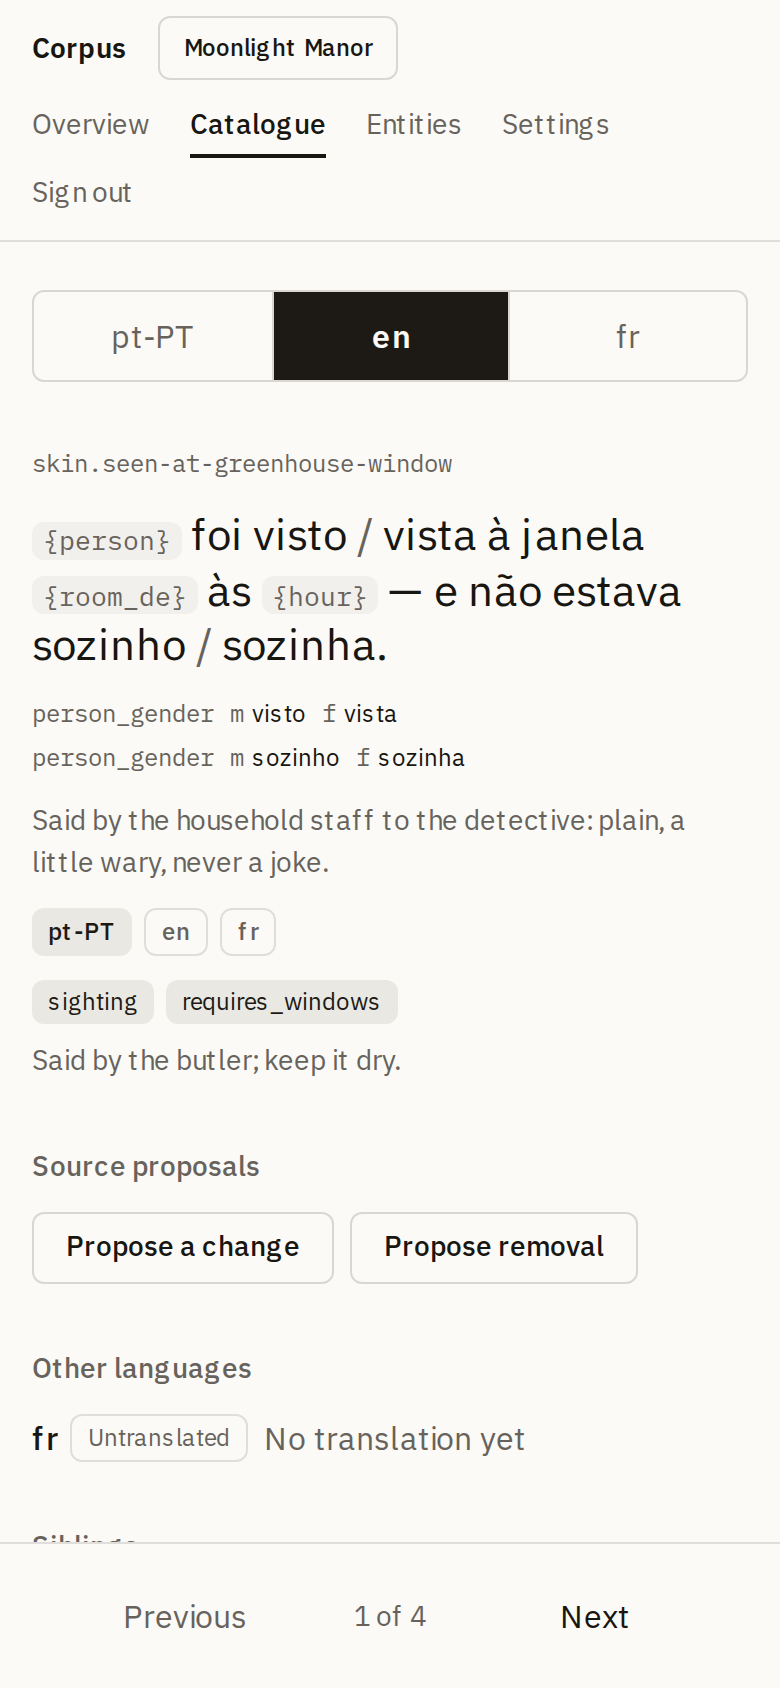
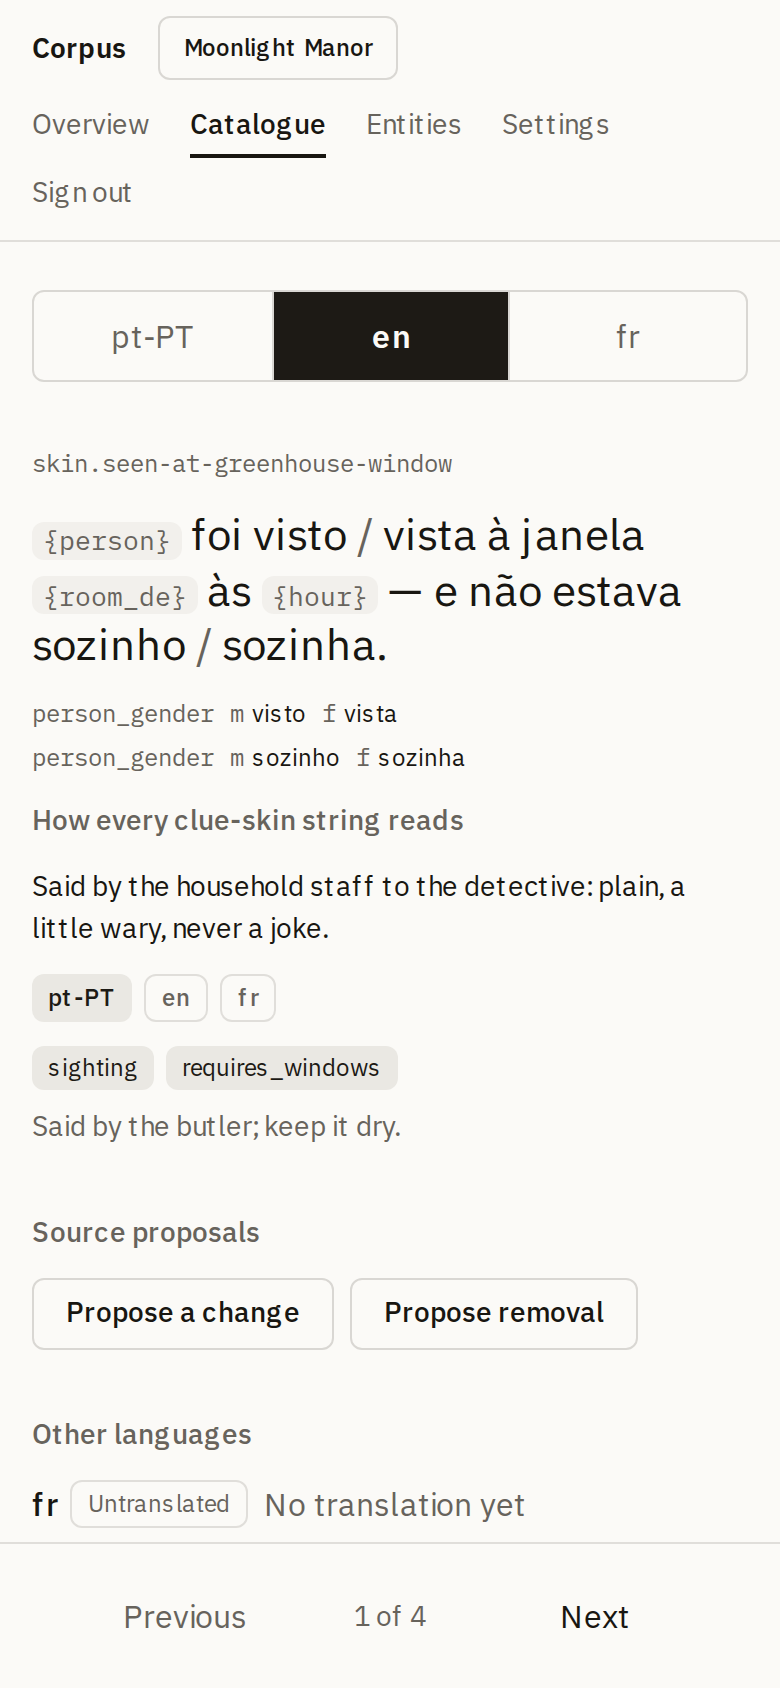
Review fixes: the note is a titled section; contract tests; the smoke and the alt text see it
The type's note is a level-3 section headed "How every <type> string
reads", so assistive tech and the eye both tell it from a string's own
text metadata. Contract tests for the optional map and the empty note;
the smoke sees the note; the structured-editor alt text names the note
and the sibling.

diff --git a/packages/contract/src/config.test.ts b/packages/contract/src/config.test.ts
@@ -124,3 +124,24 @@ test("language codes must be tags such as en or pt-PT", () => {
     corpusConfigSchema.safeParse({ ...base, project: "my project" }).success,
   ).toBe(false);
 });
+
+test("typeNotes is optional in the config and refuses an empty note", () => {
+  const base = corpusConfigSchema.parse({
+    project: "x",
+    server: "https://corpus.example",
+    sourceLanguage: "en",
+    languages: ["en"],
+    sources: [
+      { adapter: "messages", type: "chrome", path: "i18n/{lang}.json" },
+    ],
+  });
+  expect(base.typeNotes).toBeUndefined();
+  expect(
+    corpusConfigSchema.safeParse({ ...base, typeNotes: { chrome: "Plain." } })
+      .success,
+  ).toBe(true);
+  expect(
+    corpusConfigSchema.safeParse({ ...base, typeNotes: { chrome: "" } })
+      .success,
+  ).toBe(false);
+});

diff --git a/apps/web/src/app/p/[slug]/s/[stringId]/page.tsx b/apps/web/src/app/p/[slug]/s/[stringId]/page.tsx
@@ -210,12 +210,12 @@ export default async function StringPage({
             </p>
             <SourceView source={string.source} declarations={declarations} />
             {string.note && (
-              <p
-                className="text-sm text-muted-foreground"
-                aria-label={t("string.noteLabel", { type: string.type })}
+              <Section
+                heading={t("string.noteLabel", { type: string.type })}
+                level={3}
               >
-                {string.note}
-              </p>
+                <p className="text-sm">{string.note}</p>
+              </Section>
             )}
             {string.archived && (
               <Banner tone="info">{t("string.archived")}</Banner>

diff --git a/packages/contract/src/snapshot.test.ts b/packages/contract/src/snapshot.test.ts
@@ -118,3 +118,17 @@ test("a snapshot may declare its writable sources; the fixture does", () => {
   });
   expect(bad.success).toBe(false);
 });
+
+test("typeNotes is an optional map of non-empty sentences per string type (§5)", () => {
+  expect(snapshotSchema.safeParse(MINIMAL).success).toBe(true);
+  const noted = snapshotSchema.safeParse({
+    ...MINIMAL,
+    typeNotes: { chrome: "Short and plain." },
+  });
+  expect(noted.success && noted.data.typeNotes).toEqual({
+    chrome: "Short and plain.",
+  });
+  expect(
+    snapshotSchema.safeParse({ ...MINIMAL, typeNotes: { chrome: "" } }).success,
+  ).toBe(false);
+});

diff --git a/apps/web/e2e/smoke.spec.ts b/apps/web/e2e/smoke.spec.ts
@@ -203,6 +203,8 @@ test("a maintainer takes a string from pushed to verified on a phone", async ({
     page.getByRole("heading", { name: "Other languages" }),
   ).toBeVisible();
   await expect(page.getByText("No translation yet").first()).toBeVisible();
+  // The type's note reads under the source (§5).
+  await expect(page.getByText(/household staff/)).toBeVisible();
   // Its sibling, the other skin, is a link under the source (§9.3).
   await expect(page.getByRole("heading", { name: "Siblings" })).toBeVisible();
   await expect(

diff --git a/README.md b/README.md
@@ -17,7 +17,7 @@
 <p align="center">
   <picture>
     <source media="(prefers-color-scheme: dark)" srcset="docs/screenshots/editor-structured-desktop-dark.png">
-    <img src="docs/screenshots/editor-structured-desktop-light.png" width="960" alt="The editor: the language bar in the queue bar at the top; on the left a source sentence whose gendered select reads inline as visto / vista with a strip naming its keys, the other languages' current text, and the related trait and characters beneath; on the right the English draft with insertable placeholder and select chips, two live previews built from the example's English values, and the save button.">
+    <img src="docs/screenshots/editor-structured-desktop-light.png" width="960" alt="The editor: the language bar in the queue bar at the top; on the left a source sentence whose gendered select reads inline as visto / vista with a strip naming its keys, the note on how every clue skin reads, the other languages' current text, the sibling skin, and the related trait and characters beneath; on the right the English draft with insertable placeholder and select chips, two live previews built from the example's English values, and the save button.">
   </picture>
 </p>
 
